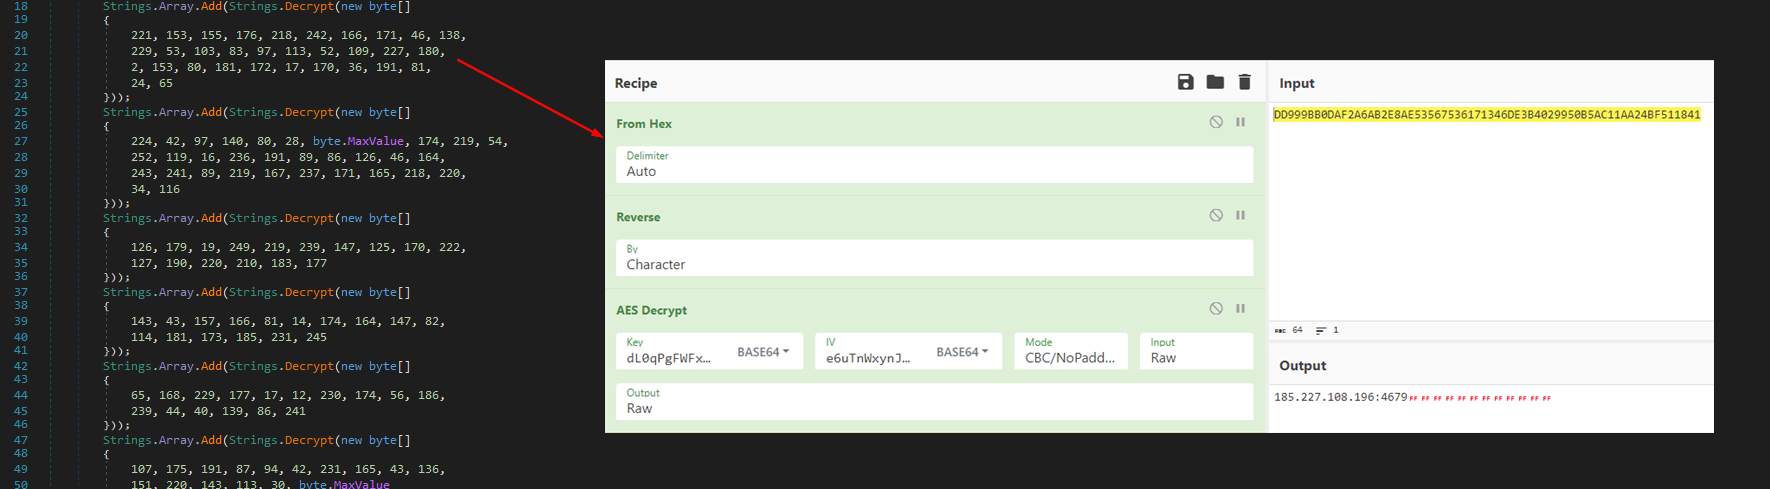
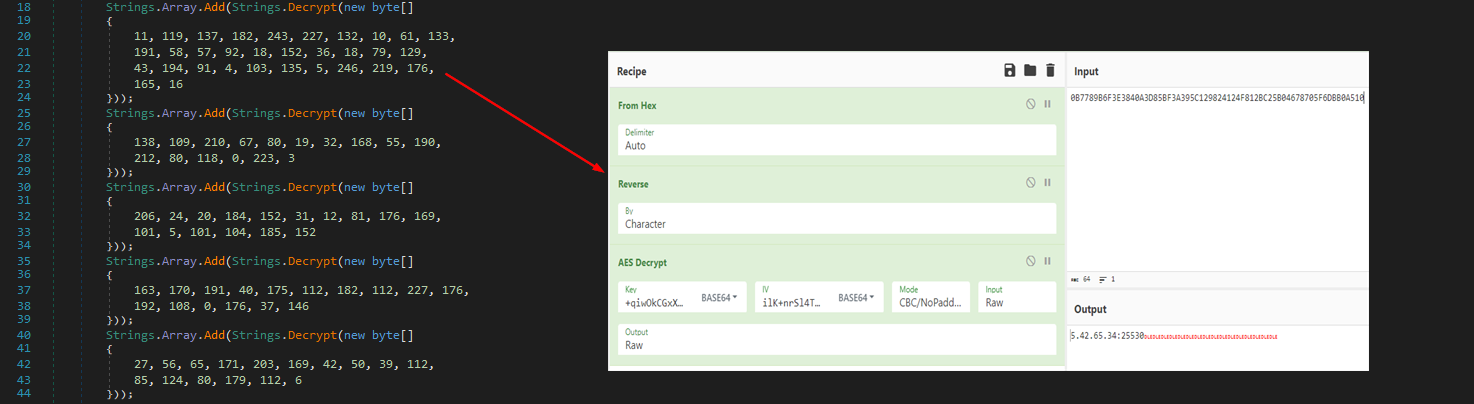
Second commit

Changed region(s): [[0.0624, 0.0594, 0.9674, 1.0], [0.0, 0.0, 0.0312, 1.0], [0.0624, 0.0, 0.2809, 0.0297]]

diff --git a/_posts/2023-12-29-MetaStealer-Part-2.md b/_posts/2023-12-29-MetaStealer-Part-2.md
@@ -53,7 +53,9 @@ In November 2023, I released the [writeup](https://russianpanda.com/2023/11/20/M
 
 MetaStealer new version is approximately 368KB in size with the binary description **Cavils Corp. 2010** (the previous one was **METRO 2022 Dev**). 
 
-![newlogo 2.png]
+The logo change:
+
+![newlogo.png](/images/MetaStealerPart2/newlogo.JPG)
 If previously, MetaStealer used "Entity" for class names; now it's using "Schema" and "TreeObject" to store data and configurations instead of **MSValue**.
 
 ![class_names_comp.jpg](/images/MetaStealerPart2/class_names_comp.JPG)
@@ -80,10 +82,10 @@ Here are the steps to decrypt the strings:
 
 {% highlight python %}
 def load_net_module(file_path):
-    return ModuleDefMD.Load(file_path)
+    return ModuleDefMD.Load(file_path)
 
 def load_net_assembly(file_path):
-    return Assembly.LoadFile(file_path)
+    return Assembly.LoadFile(file_path)
 # Main script
 module = load_net_module(file_path)
 assembly = load_net_assembly(file_path)
@@ -93,7 +95,7 @@ assembly = load_net_assembly(file_path)
 
 {% highlight python %}
 decryption_signature = [
-    {"Parameters": ["System.Int32"], "ReturnType": "System.String"}
+    {"Parameters": ["System.Int32"], "ReturnType": "System.String"}
 ]
 {% endhighlight %}
 
@@ -101,60 +103,52 @@ decryption_signature = [
 
 {% highlight python %}
 def find_decryption_methods(assembly):
-
-    suspected_methods = []
-    flags = BindingFlags.Static | BindingFlags.Public | BindingFlags.NonPublic
-    for module_type in assembly.GetTypes():
-        for method in module_type.GetMethods(flags):
-            for sig in decryption_signature:
-                if method_matches_signature(method, sig):
-                    suspected_methods.append(method)
-
-    return suspected_methods
+    suspected_methods = []
+    flags = BindingFlags.Static | BindingFlags.Public | BindingFlags.NonPublic
+    for module_type in assembly.GetTypes():
+        for method in module_type.GetMethods(flags):
+            for sig in decryption_signature:
+                if method_matches_signature(method, sig):
+                    suspected_methods.append(method)
+    return suspected_methods
 {% endhighlight %}
 
 - Finally, we will invoke the suspected decryption methods by scanning the assembly's methods for calls to the suspected decryption methods, extracting the parameters passed to these methods, and invoking the decryption methods with the extracted parameters.
 
 {% highlight python %}
 def invoke_methods(module, suspected_methods):
-
-    results = {}
-
-    for method in suspected_methods:
-        for module_type in module.Types:
-            if not module_type.HasMethods:
-                continue
-
-            for m in module_type.Methods:
-                if m.HasBody:
-                    for insnIdx, insn in enumerate(m.Body.Instructions):
-                        if insn.OpCode == OpCodes.Call:
-                            called_method_name = str(insn.Operand)
-                            if method.Name in called_method_name:
-                                params = extract_parameters(m.Body.Instructions, insnIdx, method)
-                                if len(params) == len(method.GetParameters()):
-                                    try:
-                                        result = invoke_method_safely(method, params)
-                                        if result is not None:
-                                            location = f"{module_type.FullName}.{m.Name}"
-                                            results[location] = result
-                                    except Exception as e:
-                                        None
-
-    return results
+    results = {}
+    for method in suspected_methods:
+        for module_type in module.Types:
+            if not module_type.HasMethods:
+                continue
+            for m in module_type.Methods:
+                if m.HasBody:
+                    for insnIdx, insn in enumerate(m.Body.Instructions):
+                        if insn.OpCode == OpCodes.Call:
+                            called_method_name = str(insn.Operand)
+                            if method.Name in called_method_name:
+                                params = extract_parameters(m.Body.Instructions, insnIdx, method)
+                                if len(params) == len(method.GetParameters()):
+                                    try:
+                                        result = invoke_method_safely(method, params)
+                                        if result is not None:
+                                            location = f"{module_type.FullName}.{m.Name}"
+                                            results[location] = result
+                                    except Exception as e:
+                                        None
+    return results
 {% endhighlight %}
 
 - We will also include the logic to handle different types of parameters, such as integers and strings. It uses **get_operand_value** to extract values from method instructions based on their type.
 
 {% highlight python %}
 def get_operand_value(insn, param_type):
-    if "Int32" in param_type and insn.IsLdcI4():
-        return Int32(insn.GetLdcI4Value())
-
-    elif "String" in param_type and insn.OpCode == OpCodes.Ldstr:
-        return insn.Operand
-
-    return None
+    if "Int32" in param_type and insn.IsLdcI4():
+        return Int32(insn.GetLdcI4Value())
+    elif "String" in param_type and insn.OpCode == OpCodes.Ldstr:
+        return insn.Operand
+    return None
 {% endhighlight %}
 
 You can access the full script here. 
